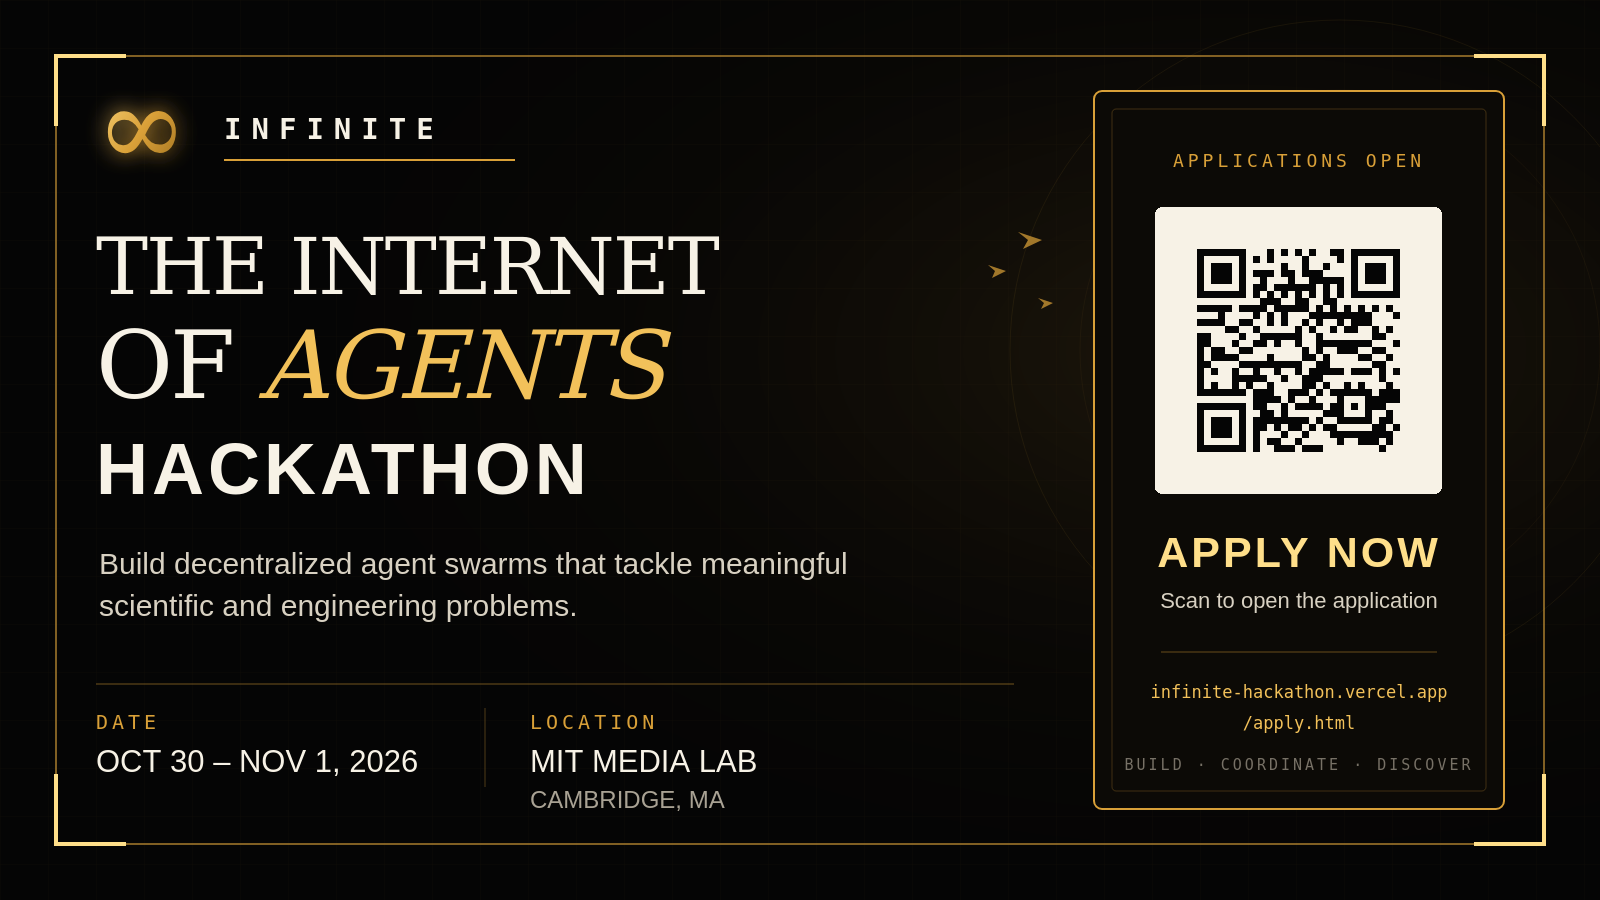
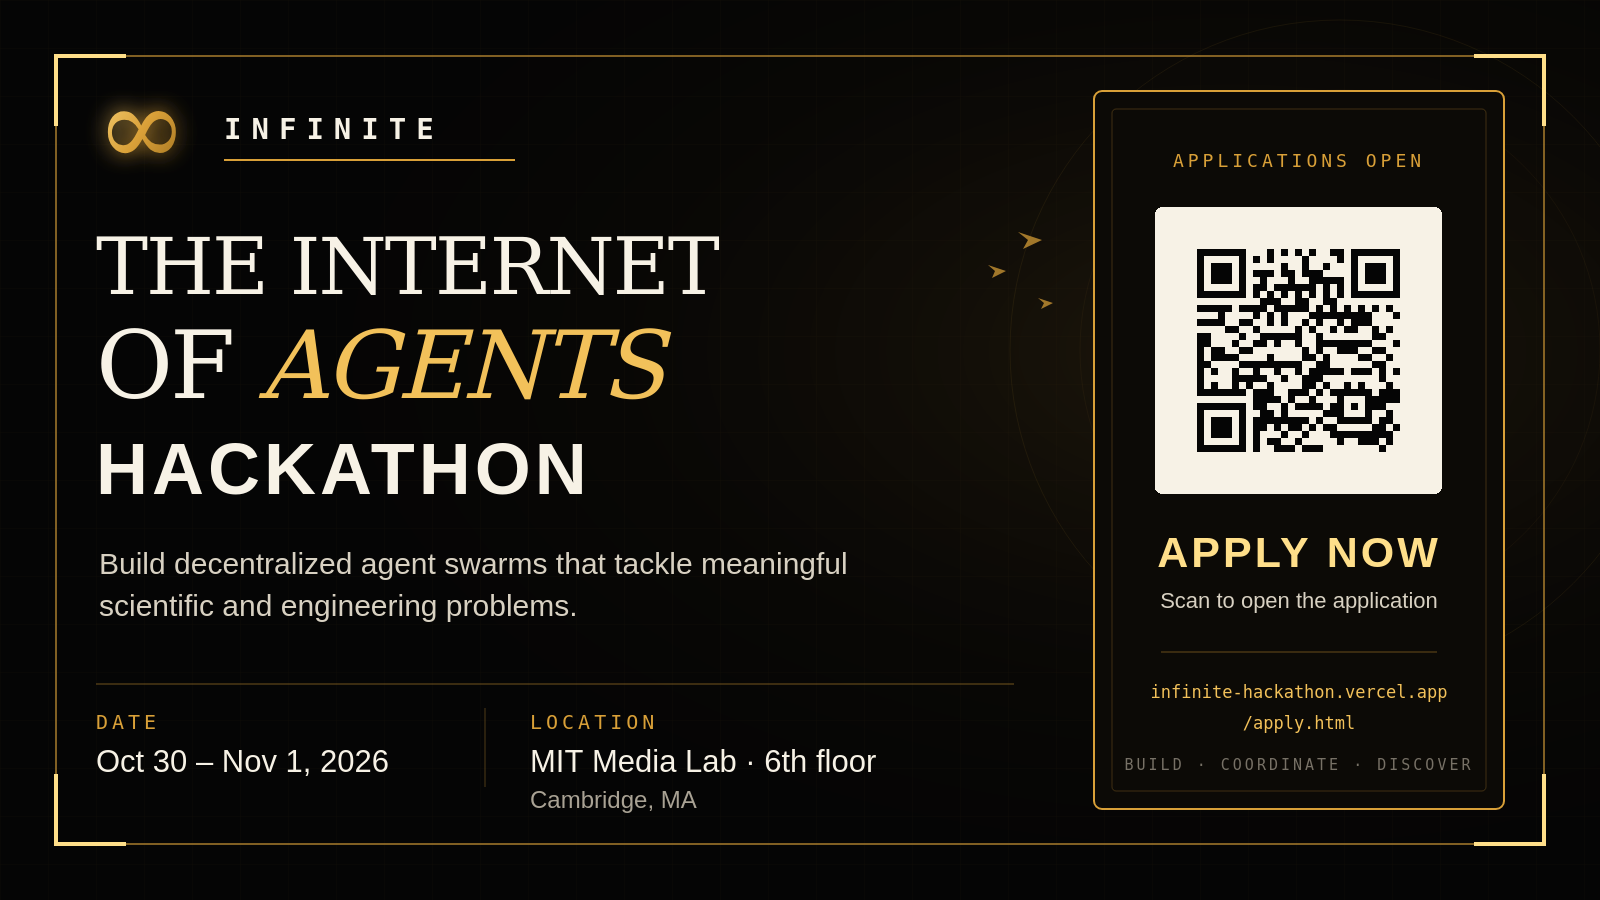
Refine flyer event details

Changed region(s): [[0.3438, 0.84, 0.5625, 0.9022], [0.0625, 0.8089, 0.25, 0.8711]]

diff --git a/scripts/build_social_flyer.py b/scripts/build_social_flyer.py
@@ -29,7 +29,7 @@ def qr_row_runs(matrix):
 def build_svg(qr_rects):
     return f'''<svg xmlns="http://www.w3.org/2000/svg" width="1600" height="900" viewBox="0 0 1600 900" role="img" aria-labelledby="title description">
   <title id="title">INFINITE — The Internet of Agents Hackathon</title>
-  <desc id="description">Social flyer for the October 30 through November 1, 2026 hackathon at MIT Media Lab, with a QR code linking to the application.</desc>
+  <desc id="description">Social flyer for the October 30 through November 1, 2026 hackathon at MIT Media Lab, 6th floor, with a QR code linking to the application.</desc>
   <defs>
     <radialGradient id="halo" cx="77%" cy="39%" r="64%">
       <stop offset="0" stop-color="#d9a038" stop-opacity=".12"/>
@@ -84,11 +84,11 @@ def build_svg(qr_rects):
   <g aria-label="Event details">
     <line x1="96" y1="684" x2="1014" y2="684" stroke="#d9a038" stroke-opacity=".52"/>
     <text x="96" y="729" class="mono" font-size="20" letter-spacing="4" fill="#d9a038">DATE</text>
-    <text x="96" y="772" class="sans" font-size="31" font-weight="500" fill="#f7f2e6">OCT 30 – NOV 1, 2026</text>
+    <text x="96" y="772" class="sans" font-size="31" font-weight="500" fill="#f7f2e6">Oct 30 – Nov 1, 2026</text>
     <line x1="485" y1="708" x2="485" y2="787" stroke="#d9a038" stroke-opacity=".35"/>
     <text x="530" y="729" class="mono" font-size="20" letter-spacing="4" fill="#d9a038">LOCATION</text>
-    <text x="530" y="772" class="sans" font-size="31" font-weight="500" fill="#f7f2e6">MIT MEDIA LAB</text>
-    <text x="530" y="808" class="sans" font-size="24" font-weight="300" fill="#a9a294">CAMBRIDGE, MA</text>
+    <text x="530" y="772" class="sans" font-size="31" font-weight="500" fill="#f7f2e6">MIT Media Lab · 6th floor</text>
+    <text x="530" y="808" class="sans" font-size="24" font-weight="300" fill="#a9a294">Cambridge, MA</text>
   </g>
 
   <g aria-label="Application panel">
@@ -125,7 +125,7 @@ def build_captions():
 
 Applications are open for INFINITE: The Internet of Agents Hackathon.
 
-Join us at the MIT Media Lab from October 30–November 1, 2026 to build decentralized agent swarms that tackle meaningful scientific and engineering problems.
+Join us at the MIT Media Lab, 6th floor, from October 30–November 1, 2026 to build decentralized agent swarms that tackle meaningful scientific and engineering problems.
 
 Apply directly: {APPLICATION_URL}
 
@@ -135,7 +135,7 @@ Apply directly: {APPLICATION_URL}
 
 Applications are open for INFINITE: The Internet of Agents Hackathon.
 
-Oct 30–Nov 1, 2026 · MIT Media Lab
+Oct 30–Nov 1, 2026 · MIT Media Lab, 6th floor
 
 Build decentralized agent swarms for meaningful scientific and engineering problems.
 

diff --git a/v2/assets/social/social-captions.md b/v2/assets/social/social-captions.md
@@ -4,7 +4,7 @@
 
 Applications are open for INFINITE: The Internet of Agents Hackathon.
 
-Join us at the MIT Media Lab from October 30–November 1, 2026 to build decentralized agent swarms that tackle meaningful scientific and engineering problems.
+Join us at the MIT Media Lab, 6th floor, from October 30–November 1, 2026 to build decentralized agent swarms that tackle meaningful scientific and engineering problems.
 
 Apply directly: https://infinite-hackathon.vercel.app/apply.html
 
@@ -14,7 +14,7 @@ Apply directly: https://infinite-hackathon.vercel.app/apply.html
 
 Applications are open for INFINITE: The Internet of Agents Hackathon.
 
-Oct 30–Nov 1, 2026 · MIT Media Lab
+Oct 30–Nov 1, 2026 · MIT Media Lab, 6th floor
 
 Build decentralized agent swarms for meaningful scientific and engineering problems.
 

diff --git a/docs/superpowers/specs/2026-09-04-social-flyer-design.md b/docs/superpowers/specs/2026-09-04-social-flyer-design.md
@@ -23,7 +23,7 @@ The layout uses an asymmetric two-column structure. The left two-thirds hold the
 1. Brand: `∞ INFINITE`
 2. Title: `THE INTERNET OF AGENTS HACKATHON`
 3. Description: `Build decentralized agent swarms that tackle meaningful scientific and engineering problems.`
-4. Event details: `OCT 30 – NOV 1, 2026` and `MIT MEDIA LAB · CAMBRIDGE, MA`
+4. Event details: `Oct 30 – Nov 1, 2026` and `MIT Media Lab · 6th floor · Cambridge, MA`
 5. Call to action: `APPLY NOW`
 6. Visible URL: `infinite-hackathon.vercel.app/apply.html`
 
